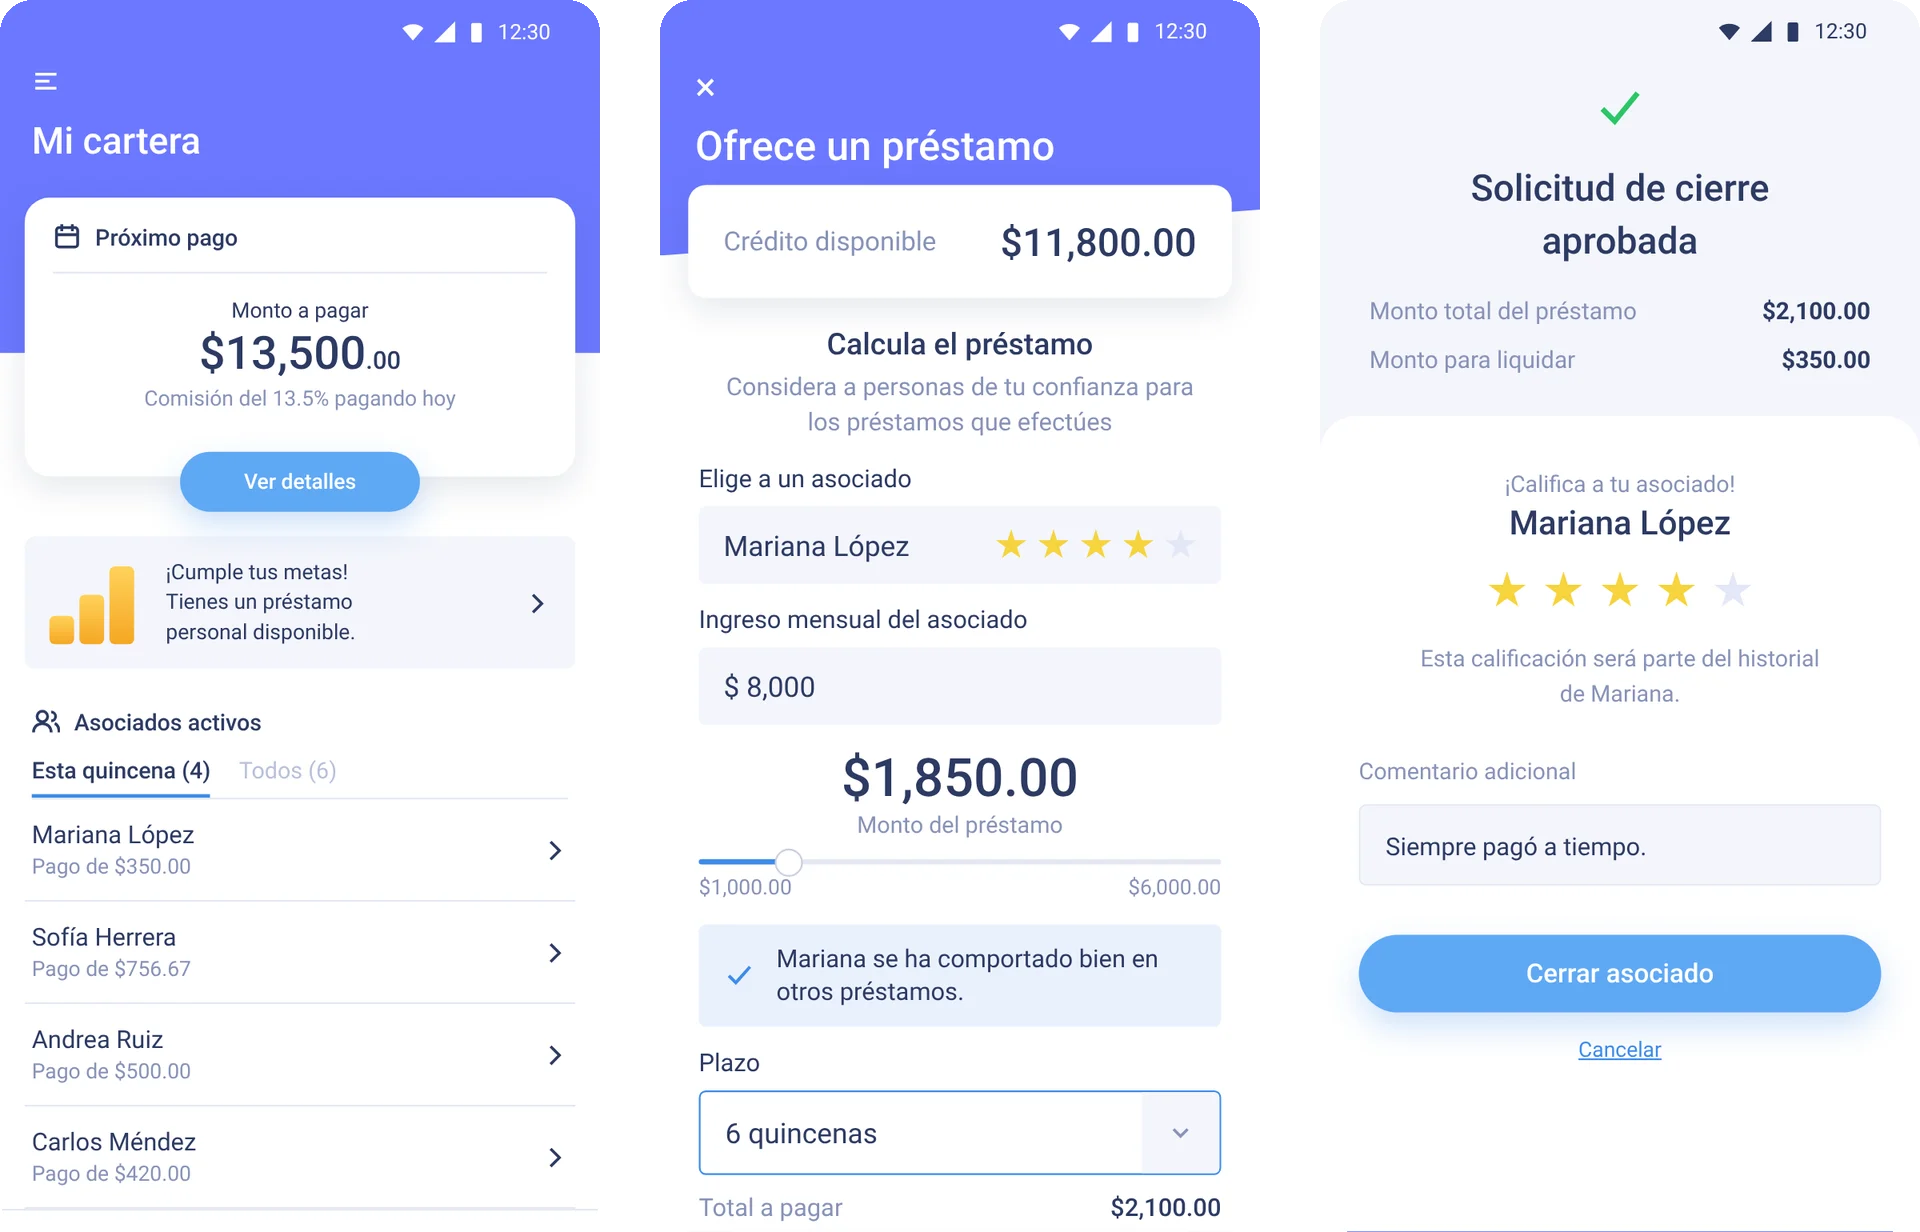
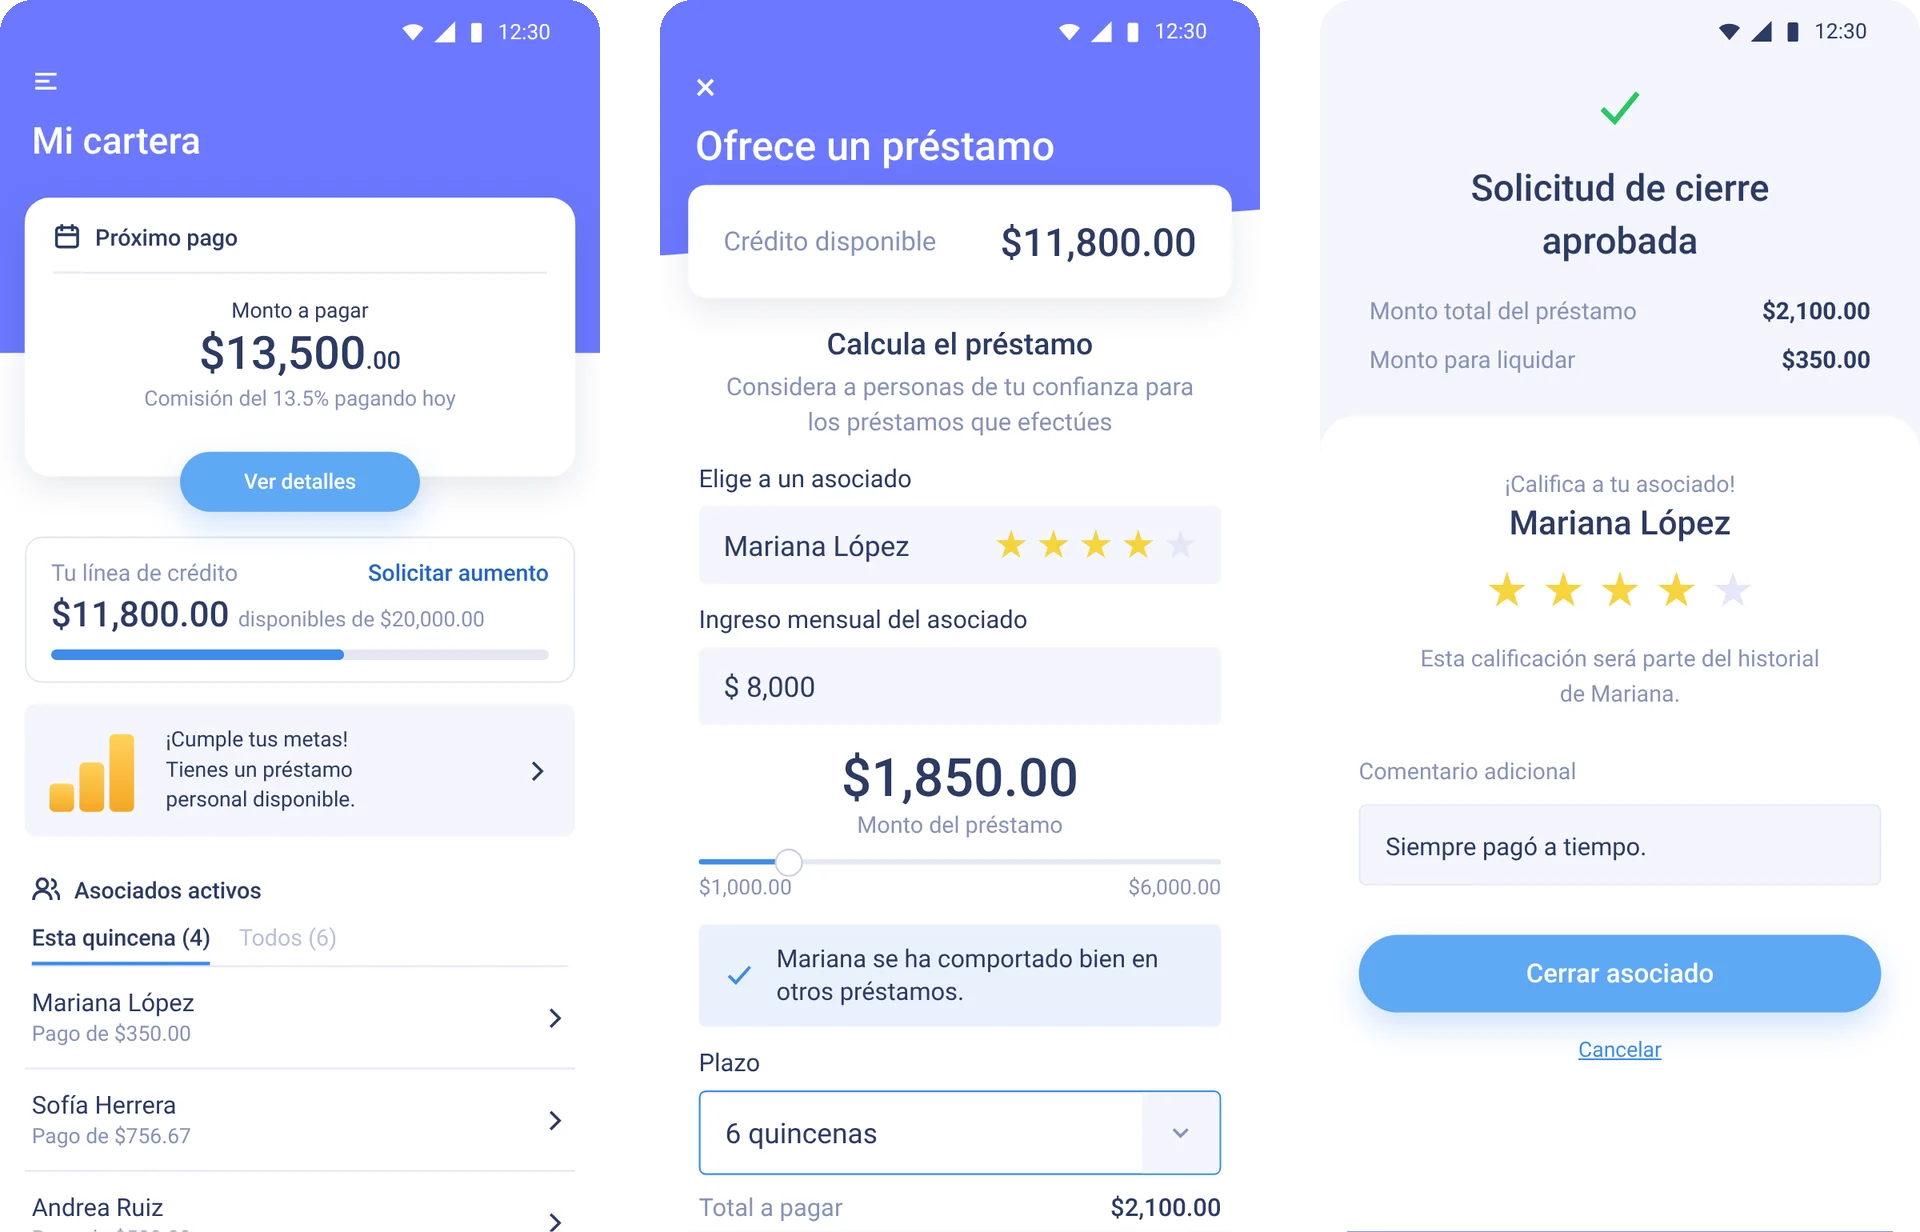
Volana: why digital, the business constraints (credit line, identity, reconciliation, risk), real payment channels instead of OXXO, credit line in the wallet, 24-hour gap in Reflection
Claude-Session: https://claude.ai/code/session_014oW9rryPzLSdmVNbG2KxAd

Changed region(s): [[0.0, 0.586, 0.1875, 0.987], [0.0, 0.4627, 0.2812, 0.5552]]

diff --git a/case-studies/volana/index.html b/case-studies/volana/index.html
@@ -53,7 +53,7 @@
     <main id="main" class="cs-main" tabindex="-1">
 
       <div class="cs-hero">
-        <img src="img/hero.webp" width="2000" height="1100" alt="Three Volana screens: the lender’s wallet, offering a loan to an associate, and an associate’s next payment with an OXXO reference.">
+        <img src="img/hero.webp" width="2000" height="1100" alt="Three Volana screens: the lender’s wallet, offering a loan to an associate, and an associate’s next payment with a barcode to pay in cash at a store.">
       </div>
 
       <!-- 01. OVERVIEW -->
@@ -70,7 +70,7 @@
 
         <div class="cs-overview__grid">
           <div class="cs-overview__main">
-            <p>Julieta borrowed from Volana and lent that money to people she trusted, her credit circle. Every fortnight she rode the bus from house to house to collect their payments, then carried the cash to the branch. Volana’s app let her and her associates <strong>sign up, track and pay their loans</strong> without that trip, by bank transfer or in cash at an OXXO store.</p>
+            <p>Julieta borrowed from Volana and lent that money to people she trusted, her credit circle. Every fortnight she rode the bus from house to house to collect their payments, then carried the cash to the branch. Volana’s app let her and her associates <strong>sign up, track and pay their loans</strong> without that trip, by bank transfer or in cash at stores like Walmart or Soriana.</p>
             <p class="cs-label">My role</p>
             <p>As Lead UI Designer, I defined the visual style, built the UI kit, designed the information architecture and the loan request and admin flows, and managed the design backlog.</p>
           <div class="cs-impact vo-impact">
@@ -109,11 +109,26 @@
           <p>Volana lent around MXN 20,000 to one person, like Julieta, who shared it with people they trusted: their credit circle of associates. That lender then collected each payment themselves. Some spent the whole day on public transport, picking up cash from their associates and a new associate’s documents to sign them up at the branch.</p>
         </div>
 
+        <div class="vo-why">
+          <h3 class="cs-label">Why digital</h3>
+          <p>The circles worked: people lent to people they knew, and they paid. What didn’t scale was the branch. Every new customer meant a visit, papers and staff, and Volana only reached as far as its branches in Estado de México. Polygon Fintech, which already ran the Medá wallet, acquired Volana to grow it without opening more branches. The app was how.</p>
+        </div>
+
         <hr class="cs-rule cs-rule--dotted">
 
         <div class="cs-problem">
           <h3 class="cs-label">The problem</h3>
           <p class="cs-lead">How might we keep lenders and their associates safe, and let new people join, without anyone carrying cash or documents across town?</p>
+        </div>
+
+        <div class="vo-constraints">
+          <h3 class="cs-label">The constraints we designed within</h3>
+          <ul>
+            <li><h4>A credit line, not a loan</h4><p>Each lender had a line from Volana, around MXN 20,000. They could only lend within it, Volana reviewed every loan to an associate, and lenders could ask for a bigger line.</p></li>
+            <li><h4>Identity on paper</h4><p>Everyone who joined showed both sides of their INE and a proof of address. In the app, Veriff checked them, so nobody carried them to a branch.</p></li>
+            <li><h4>Money that moves at two speeds</h4><p>Bank transfers showed up at once. Cash paid at a store took up to 24 hours, so for a day a lender could see as unpaid an associate who had already paid.</p></li>
+            <li><h4>Risk held by people</h4><p>The credit line capped what anyone could owe, the circle meant lending to people you know, and every loan got Volana’s review and, at the end, a rating.</p></li>
+          </ul>
         </div>
 
         <hr class="cs-rule">
@@ -176,7 +191,7 @@
                 <div class="vo-journey__need"><dt>Need</dt><dd>Get each associate’s payment on time.</dd></div>
                 <div class="vo-journey__feel"><dt>Feeling</dt><dd><span class="vo-journey__emoji" aria-hidden="true">😩</span>Exhausted</dd></div>
                 <div class="vo-journey__pain"><dt>Pain point</dt><dd>A whole day on public transport, house to house, carrying cash.</dd></div>
-                <div class="vo-journey__change"><dt>With the app</dt><dd>Associates pay by transfer or at OXXO; the wallet shows who paid.</dd></div>
+                <div class="vo-journey__change"><dt>With the app</dt><dd>Associates pay by transfer or in cash at a store; the wallet shows who paid.</dd></div>
               </dl>
             </li>
             <li style="--level: 2">
@@ -185,7 +200,7 @@
                 <div class="vo-journey__need"><dt>Need</dt><dd>Pay Volana before the due date.</dd></div>
                 <div class="vo-journey__feel"><dt>Feeling</dt><dd><span class="vo-journey__emoji" aria-hidden="true">😬</span>Anxious</dd></div>
                 <div class="vo-journey__pain"><dt>Pain point</dt><dd>Another trip to the branch with all the cash collected.</dd></div>
-                <div class="vo-journey__change"><dt>With the app</dt><dd>Transfer or cash at OXXO, no trip to the branch.</dd></div>
+                <div class="vo-journey__change"><dt>With the app</dt><dd>Transfer or cash at a store, no trip to the branch.</dd></div>
               </dl>
             </li>
             <li style="--level: 5">
@@ -218,7 +233,7 @@
             <p class="cs-label">01. One app, two roles</p>
             <h3>The lender tracks, the associate pays.</h3>
             <p>Lenders and associates used the same app and signed in by role, because they needed different things. The lender needed to see who had paid and what was still owed. The associate needed to know how much and when, and a way to pay without a trip.</p>
-            <p>So the lender’s wallet opens on their next payment to Volana, with the associates who owe this fortnight below it. The associate’s home opens on what they owe, and two ways to pay: a bank transfer, or cash at any OXXO store with a reference. Not everyone used a bank account, so cash had to stay an option.</p>
+            <p>So the lender’s wallet opens on their next payment to Volana, with the associates who owe this fortnight below it. The associate’s home opens on what they owe, and two ways to pay: a bank transfer or deposit, or cash at Walmart, Bodega Aurrera, Soriana or La Comer with a barcode. Not everyone used a bank account, so cash had to stay an option, and the screen says when each payment shows up: at once, or within 24 hours.</p>
             <p class="cs-chip"><span>Based on</span> Focus groups</p>
           </div>
           <figure class="cs-decision__media cs-decision__media--phone vo-roles">
@@ -230,7 +245,7 @@
             <div class="vo-phone">
               <img class="vo-phone__status" src="img/wallet-status.webp" width="750" height="66" alt="">
               <div class="vo-phone__screen" tabindex="0" role="region" aria-label="Mi cartera (scrollable screen)">
-                <img src="img/wallet.webp" width="750" height="1568" alt="Julieta, the lender, “Mi cartera”: the next payment of $13,500.00, a personal loan offer, and the four associates who pay this fortnight: Mariana López ($350.00), Sofía Herrera ($756.67), Andrea Ruiz ($500.00) and Carlos Méndez ($420.00).">
+                <img src="img/wallet.webp" width="750" height="1778" alt="Julieta, the lender, “Mi cartera”: the next payment of $13,500.00, her credit line with $11,800.00 available of $20,000.00 and “Solicitar aumento”, a personal loan offer, and the four associates who pay this fortnight: Mariana López ($350.00), Sofía Herrera ($756.67), Andrea Ruiz ($500.00) and Carlos Méndez ($420.00).">
               </div>
               <img class="vo-phone__bar" src="img/wallet-bar.webp" width="750" height="124" alt="">
             </div>
@@ -239,7 +254,7 @@
             <div class="vo-phone">
               <img class="vo-phone__status" src="img/pay-status.webp" width="750" height="66" alt="">
               <div class="vo-phone__screen" tabindex="0" role="region" aria-label="Hola, Mariana (scrollable screen)">
-                <img src="img/pay.webp" width="750" height="1313" alt="Mariana, an associate, “Hola, Mariana”: next payment of $350.00 due Friday, November 15, payment 2 of 6, lent by Julieta García, with cash at OXXO selected and a payment reference with a barcode.">
+                <img src="img/pay.webp" width="750" height="1385" alt="Mariana, an associate, “Hola, Mariana”: next payment of $350.00 due Friday, November 15, payment 2 of 6, lent by Julieta García, with cash at a store (Walmart, Bodega Aurrera, Soriana or La Comer) selected, a barcode for service #198, and a note that the payment shows within 24 hours.">
               </div>
               <img class="vo-phone__bar" src="img/pay-bar.webp" width="750" height="124" alt="">
             </div>
@@ -296,7 +311,7 @@
             <div class="vo-phone">
               <img class="vo-phone__status" src="img/notify-status.webp" width="750" height="66" alt="">
               <div class="vo-phone__screen" tabindex="0" role="region" aria-label="Lock screen notifications (scrollable screen)" style="background: #8F9BFF">
-                <img src="img/notify.webp" width="750" height="1434" alt="Lock screen with two Volana notifications: “Tu pago vence mañana: paga $350.00 antes del viernes. En OXXO usa tu referencia 9301 4472 0815 36”, and an older one, “Pago recibido: tu pago 1 de 6 por $350.00 quedó registrado. ¡Gracias por pagar a tiempo!”">
+                <img src="img/notify.webp" width="750" height="1434" alt="Lock screen with two Volana notifications: “Tu pago vence mañana: paga $350.00 antes del viernes, por transferencia o en efectivo en Walmart, Soriana o Bodega Aurrera”, and an older one, “Pago recibido: tu pago 1 de 6 por $350.00 quedó registrado. ¡Gracias por pagar a tiempo!”">
               </div>
             </div>
           </figure>
@@ -348,6 +363,7 @@
         <h2 class="cs-title" id="reflection" tabindex="-1">Measure the change, not just the download</h2>
         <ul class="cs-lessons">
           <li><h3>Define success first</h3><p>We tracked adoption only. I’d agree on digital payments, on-time rate and trips avoided before designing.</p></li>
+          <li><h3>Design for the 24-hour gap</h3><p>Cash took up to a day to show. I’d show “paid at a store, shows within 24 hours” so a lender never chases someone who already paid.</p></li>
           <li><h3>Motivate, don’t expose</h3><p>On-time payers earned a rating. I’d test that it never shames people who are late, or pushes anyone to borrow beyond their means.</p></li>
         </ul>
         <hr class="cs-rule">

diff --git a/case-studies/volana/volana.css b/case-studies/volana/volana.css
@@ -98,3 +98,15 @@
   .vo-steps { grid-template-columns: repeat(3, minmax(0, 1fr)); gap: 24px; }
 }
 .vo-impact { margin-top: 40px; }
+
+/* Challenge: why the business went digital, and the constraints the design worked within */
+.vo-why { max-width: 640px; margin-top: 40px; }
+.vo-why .cs-label { margin: 0 0 8px; }
+.vo-constraints { margin-top: 56px; }
+.vo-constraints .cs-label { margin: 0; }
+.vo-constraints ul { list-style: none; margin: 16px 0 0; padding: 0; display: grid; gap: 24px; }
+.vo-constraints li { padding-top: 16px; border-top: 1px solid var(--cs-line, #DDD9CC); }
+.vo-constraints h4 { margin: 0; font-size: 16px; line-height: 24px; font-weight: 500; color: var(--ink-strong); }
+.vo-constraints h4 + p { margin-top: 4px; font-size: 15px; line-height: 23px; }
+@media (min-width: 700px) { .vo-constraints ul { grid-template-columns: repeat(2, minmax(0, 1fr)); gap: 32px 40px; } }
+@media (min-width: 1100px) { .vo-constraints ul { grid-template-columns: repeat(4, minmax(0, 1fr)); gap: 24px; } }

diff --git a/CLAUDE.md b/CLAUDE.md
@@ -58,7 +58,7 @@ The tests serve the site on port 4173, open every page (and every hash view of `
   - "See raw data" opens a native `<dialog>` (focus trapped, Esc closes, focus returns to the button). Below 700px it opens as a bottom sheet with the screenshot first.
   - Per case study: `--cs-hero-bg` (the top band, a very light tint of the project's color; Order sets `#F6EEF2`), `--cs-accent-line` (the Overview line, in the project's color from Work) and `--cs-hero-fade` (where the hero fades; 82% for device mockups). Order sets is the exception: its hero is the full screen at full opacity, no fade, at most the content column and at least 40px from each side.
   - Order sets (`case-studies/order-sets/`) adds `tour.js` (a click-through walkthrough: one screen at a time, chapters, a 44px green hotspot button per step, notes in the Final note style, Back/Next, a native `<dialog>` for the before/after) and `flow.js` (one interactive flowchart: lanes and Yes/No are real buttons with `aria-pressed`, the outcome is written below in an `aria-live` paragraph; opens fitted, zooms with + / −). Screens come from the uploaded 3840px PNGs, converted to 2880px WebP.
-- Volana (`case-studies/volana/`) is a short case study: no validation module. It adds `volana.css` (Volana's blue, phone-sized screens, the customer journey: stages as columns aligned with subgrid on desktop and cards below 1100px, feelings as an emoji plus the word on one dashed horizontal line). Screens are recreations of the 2019 designs, rendered from HTML, shown in phone frames (`.vo-phone`): the status bar and a tab bar or main button stay fixed (the button 40px above the bottom, in the 375px scale), the screen scrolls inside (a focusable region), and `volana.js` hides the button while the screen scrolls and brings it back when scrolling stops or the end is reached. The persona is Julieta García, a lender (the person in the middle); Mariana López is the associate she lends to. The persona card (`.cs-persona`) lives in `case-study.css`, shared with Order sets. Sections: Overview (with the persona card), The challenge, Process (three steps with photos, faces blurred; the journey as the focus group's output; the workshop whiteboard), Key decisions (01 one app, two roles, with a Lender / Associate switch; 02 trust, with an Offer / Close switch; 03 Wi-Fi, with a lock-screen notification; 04 Veriff sign-up), Outcome, Reflection. The switches are segmented controls with `aria-pressed`.
+- Volana (`case-studies/volana/`) is a short case study: no validation module. It adds `volana.css` (Volana's blue, phone-sized screens, the customer journey: stages as columns aligned with subgrid on desktop and cards below 1100px, feelings as an emoji plus the word on one dashed horizontal line). Screens are recreations of the 2019 designs, rendered from HTML, shown in phone frames (`.vo-phone`): the status bar and a tab bar or main button stay fixed (the button 40px above the bottom, in the 375px scale), the screen scrolls inside (a focusable region), and `volana.js` hides the button while the screen scrolls and brings it back when scrolling stops or the end is reached. The persona is Julieta García, a lender (the person in the middle); Mariana López is the associate she lends to. The persona card (`.cs-persona`) lives in `case-study.css`, shared with Order sets. Payments: bank transfer or deposit (shows at once) or cash at Walmart, Bodega Aurrera, Soriana or La Comer with a barcode (shows within 24 hours); not OXXO. Sections: Overview (with the persona card), The challenge (why digital: Polygon acquired Volana to grow without more branches; the four constraints: credit line, identity, reconciliation, risk), Process (three steps with photos, faces blurred; the journey as the focus group's output; the workshop whiteboard), Key decisions (01 one app, two roles, with a Lender / Associate switch; 02 trust, with an Offer / Close switch; 03 Wi-Fi, with a lock-screen notification; 04 Veriff sign-up), Outcome, Reflection. The switches are segmented controls with `aria-pressed`.
 - The project switcher on desktop is a tablist (`role="tab"` + `aria-selected`, roving tabindex 0/-1, arrow keys).
 - Inactive project numbers use `--num-idle: #93918A`, the lightest warm grey that meets 3:1 at 24px.
 - The index links, Tested/Final control, annotations switch, dialogs and gallery rules apply to the case study pages when they are built.
